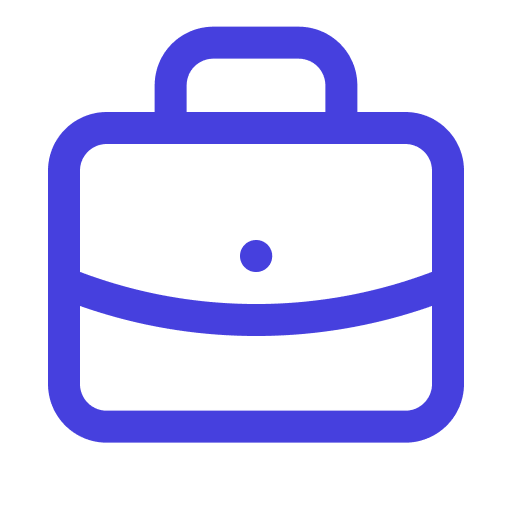
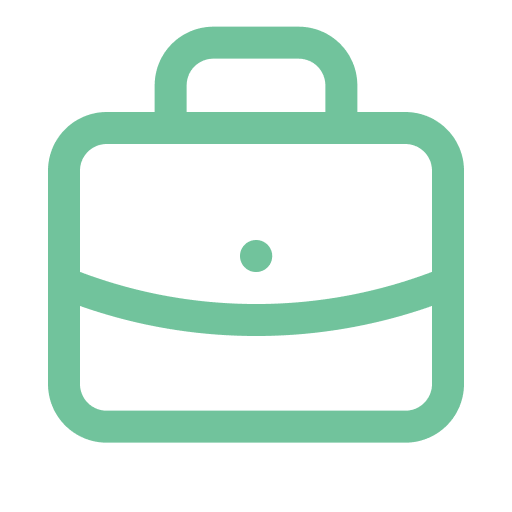
Fixed: ui

Changed region(s): [[0.0938, 0.0312, 0.9062, 0.875], [0.4688, 0.4688, 0.5312, 0.5312]]

diff --git a/front/src/pages/Home/Home.jsx b/front/src/pages/Home/Home.jsx
@@ -7,12 +7,23 @@ import chel from "../../assets/chel.png";
 import arrow from "../../assets/arrow.png";
 import arrowdown from "../../assets/arrowdown.png";
 import rightarrow from "../../assets/rightarrow.png";
+import arrowrighthover from "../../assets/arrowrighthover.png";
 import business from "../../assets/business.png";
+import businesshover from "../../assets/businesshover.png";
 import sales from "../../assets/sales.png";
+import saleshover from "../../assets/saleshover.png";
+import micro from "../../assets/micro.png";
+import microhover from "../../assets/microhover.png";
+import humanresources from "../../assets/humanresources.png";
+import humanresourceshover from "../../assets/humanresourceshover.png";
 import overall from "../../assets/overall.png";
+import overallhover from "../../assets/overallhover.png";
 import finance from "../../assets/finance.png";
+import financehover from "../../assets/financehover.png";
 import engineering from "../../assets/engineering.png";
+import engineeringhover from "../../assets/engineeringhover.png";
 import technology from "../../assets/technology.png";
+import technologyhover from "../../assets/technologyhover.png";
 import instagram from "../../assets/instagram.png";
 import facebook from "../../assets/facebook.png";
 import linkedin from "../../assets/linkedin.png";
@@ -21,10 +32,22 @@ import { useNavigate } from "react-router-dom";
 import api from "../../services/api";
 import { useEffect, useState } from "react";
 
+const icons = [
+  { default: overall, hover: overallhover, alt: "overall icon" },
+  { default: sales, hover: saleshover, alt: "sales icon" },
+  { default: micro, hover: microhover, alt: "microphone icon" },
+  { default: finance, hover: financehover, alt: "money icon" },
+  { default: technology, hover: technologyhover, alt: "technology icon" },
+  { default: engineering, hover: engineeringhover, alt: "engineering icon" },
+  { default: business, hover: businesshover, alt: "business icon" },
+  { default: humanresources, hover: humanresourceshover, alt: "people icon" },
+];
+
 export const Home = () => {
   const navigate = useNavigate();
   const [kazakhstanCities, setKazakhstanCities] = useState([]);
   const [selectedCity, setSelectedCity] = useState("");
+  const [hoveredIndex, setHoveredIndex] = useState(null);
 
   useEffect(() => {
     const fetchCities = async () => {
@@ -46,7 +69,7 @@ export const Home = () => {
           <div className="w-full flex flex-col">
             <h1 className="home text-6xl w-100 mt-35">
               DISCOVER HERE MORE{" "}
-              <span className="text-[#26A4FF]">PROJECTS</span>
+              <span className="text-[#71C39C]">PROJECTS</span>
             </h1>
             <img src={blueline} alt="blue line" className="w-93 py-4" />
             <p className="text-[#515B6F] w-110 text-xl">
@@ -86,7 +109,7 @@ export const Home = () => {
                   />
                 </div>
               </div>
-              <button className="font-bold bg-[#4640DE] text-white px-7 py-3">
+              <button className="font-bold bg-[#71C39C] text-white px-7 py-3">
                 Search my projects
               </button>
             </div>
@@ -114,100 +137,252 @@ export const Home = () => {
         <div className="px-30 py-20 bg-white">
           <div className="flex items-center justify-between">
             <h1 className="text-5xl font-bold">
-              Explore by <span className="text-[#26A4FF]">specializations</span>
+              Explore by <span className="text-[#71C39C]">specializations</span>
             </h1>
             <div
               className="flex items-center gap-3 cursor-pointer"
               onClick={() => navigate("/project-catalog")}
             >
-              <p className="text-[#4640DE] text-xl font-semibold">
+              <p className="text-[#71C39C] text-xl font-semibold">
                 Show all projects
               </p>
               <img src={arrow} alt="arrow icon" className="w-5 h-5" />
             </div>
           </div>
           <div className="grid grid-cols-4 gap-5 mt-12">
-            <div className="flex flex-col justify-center p-6 w-74 h-50 border-2 border-[#D6DDEB]">
+            <div
+              onMouseEnter={() => setHoveredIndex(0)}
+              onMouseLeave={() => setHoveredIndex(null)}
+              className="flex flex-col justify-center p-6 w-74 h-50 border-2 border-[#D6DDEB] hover:border-none hover:bg-[#71C39C] hover:text-white cursor-pointer transition-all duration-75 ease-in-out"
+            >
               <img
-                src={overall}
+                src={hoveredIndex === 0 ? icons[0].hover : icons[0].default}
                 alt="pen and ruler icon"
-                className="w-10 h-10"
+                className="w-10 h-10 mb-3"
               />
               <h1 className="text-2xl font-bold py-2">Overall</h1>
-              <div className="flex items-center gap-3 cursor-pointer">
-                <p className="text-[#7C8493] pb-1">Available projects</p>
+              <div className="flex items-center gap-3">
+                <p
+                  className={
+                    hoveredIndex === 0
+                      ? "text-white pb-1"
+                      : "text-[#7C8493] pb-1"
+                  }
+                >
+                  Available projects
+                </p>
                 <img
-                  src={rightarrow}
+                  src={hoveredIndex === 0 ? arrowrighthover : rightarrow}
                   alt="arrow right icon"
                   className="w-5 h-5"
                 />
               </div>
             </div>
-            <div className="flex flex-col justify-center p-6 w-74 h-50 border-2 border-[#D6DDEB]">
-              <img src={sales} alt="sales icon" className="w-10 h-10" />
+            <div
+              onMouseEnter={() => setHoveredIndex(1)}
+              onMouseLeave={() => setHoveredIndex(null)}
+              className="flex flex-col justify-center p-6 w-74 h-50 border-2 border-[#D6DDEB] hover:border-none hover:bg-[#71C39C] hover:text-white cursor-pointer transition-all duration-75 ease-in-out"
+            >
+              <img
+                src={hoveredIndex === 1 ? icons[1].hover : icons[1].default}
+                alt="sales icon"
+                className="w-10 h-10 mb-3"
+              />
               <h1 className="text-2xl font-bold py-2 text-nowrap">
                 Marketing Translation
               </h1>
-              <div className="flex items-center gap-3 cursor-pointer">
-                <p className="text-[#7C8493] pb-1">Available projects</p>
+              <div className="flex items-center gap-3">
+                <p
+                  className={
+                    hoveredIndex === 1
+                      ? "text-white pb-1"
+                      : "text-[#7C8493] pb-1"
+                  }
+                >
+                  Available projects
+                </p>
                 <img
-                  src={rightarrow}
+                  src={hoveredIndex === 1 ? arrowrighthover : rightarrow}
                   alt="arrow right icon"
                   className="w-5 h-5"
                 />
               </div>
             </div>
-            <div className="flex flex-col justify-center p-6 w-74 h-50 border-2 border-[#D6DDEB]">
-              <img src={finance} alt="money icon" className="w-10 h-10" />
+            <div
+              onMouseEnter={() => setHoveredIndex(2)}
+              onMouseLeave={() => setHoveredIndex(null)}
+              className="flex flex-col justify-center p-6 w-74 h-50 border-2 border-[#D6DDEB] hover:border-none hover:bg-[#71C39C] hover:text-white cursor-pointer transition-all duration-75 ease-in-out"
+            >
+              <img
+                src={hoveredIndex === 2 ? icons[2].hover : icons[2].default}
+                alt="sales icon"
+                className="w-10 h-10 mb-3"
+              />
+              <h1 className="text-2xl font-bold py-2 text-nowrap">
+                Legal Translation
+              </h1>
+              <div className="flex items-center gap-3">
+                <p
+                  className={
+                    hoveredIndex === 2
+                      ? "text-white pb-1"
+                      : "text-[#7C8493] pb-1"
+                  }
+                >
+                  Available projects
+                </p>
+                <img
+                  src={hoveredIndex === 2 ? arrowrighthover : rightarrow}
+                  alt="arrow right icon"
+                  className="w-5 h-5"
+                />
+              </div>
+            </div>
+            <div
+              onMouseEnter={() => setHoveredIndex(3)}
+              onMouseLeave={() => setHoveredIndex(null)}
+              className="flex flex-col justify-center p-6 w-74 h-50 border-2 border-[#D6DDEB] hover:border-none hover:bg-[#71C39C] hover:text-white cursor-pointer transition-all duration-75 ease-in-out"
+            >
+              <img
+                src={hoveredIndex === 3 ? icons[3].hover : icons[3].default}
+                alt="money icon"
+                className="w-10 h-10 mb-3"
+              />
               <h1 className="text-2xl font-bold py-2 text-nowrap">
                 Financial Translation
               </h1>
-              <div className="flex items-center gap-3 cursor-pointer">
-                <p className="text-[#7C8493] pb-1">Available projects</p>
+              <div className="flex items-center gap-3">
+                <p
+                  className={
+                    hoveredIndex === 3
+                      ? "text-white pb-1"
+                      : "text-[#7C8493] pb-1"
+                  }
+                >
+                  Available projects
+                </p>
                 <img
-                  src={rightarrow}
+                  src={hoveredIndex === 3 ? arrowrighthover : rightarrow}
                   alt="arrow right icon"
                   className="w-5 h-5"
                 />
               </div>
             </div>
-            <div className="flex flex-col justify-center p-6 w-74 h-50 border-2 border-[#D6DDEB]">
-              <img src={technology} alt="monitor icon" className="w-10 h-10" />
+            <div
+              onMouseEnter={() => setHoveredIndex(4)}
+              onMouseLeave={() => setHoveredIndex(null)}
+              className="flex flex-col justify-center p-6 w-74 h-50 border-2 border-[#D6DDEB] hover:border-none hover:bg-[#71C39C] hover:text-white cursor-pointer transition-all duration-75 ease-in-out"
+            >
+              <img
+                src={hoveredIndex === 4 ? icons[4].hover : icons[4].default}
+                alt="monitor icon"
+                className="w-10 h-10 mb-3"
+              />
               <h1 className="text-2xl font-bold py-2 text-nowrap">
                 Technical Translation
               </h1>
-              <div className="flex items-center gap-3 cursor-pointer">
-                <p className="text-[#7C8493] pb-1">Available projects</p>
+              <div className="flex items-center gap-3">
+                <p
+                  className={
+                    hoveredIndex === 4
+                      ? "text-white pb-1"
+                      : "text-[#7C8493] pb-1"
+                  }
+                >
+                  Available projects
+                </p>
                 <img
-                  src={rightarrow}
+                  src={hoveredIndex === 4 ? arrowrighthover : rightarrow}
                   alt="arrow right icon"
                   className="w-5 h-5"
                 />
               </div>
             </div>
-            <div className="flex flex-col justify-center p-6 w-74 h-50 border-2 border-[#D6DDEB]">
-              <img src={engineering} alt="code icon" className="w-10 h-10" />
+            <div
+              onMouseEnter={() => setHoveredIndex(5)}
+              onMouseLeave={() => setHoveredIndex(null)}
+              className="flex flex-col justify-center p-6 w-74 h-50 border-2 border-[#D6DDEB] hover:border-none hover:bg-[#71C39C] hover:text-white cursor-pointer transition-all duration-75 ease-in-out"
+            >
+              <img
+                src={hoveredIndex === 5 ? icons[5].hover : icons[5].default}
+                alt="code icon"
+                className="w-10 h-10 mb-3"
+              />
               <h1 className="text-2xl font-bold py-2 text-nowrap">
                 Software Localization
               </h1>
-              <div className="flex items-center gap-3 cursor-pointer">
-                <p className="text-[#7C8493] pb-1">Available projects</p>
+              <div className="flex items-center gap-3 w-fit">
+                <p
+                  className={
+                    hoveredIndex === 5
+                      ? "text-white pb-1"
+                      : "text-[#7C8493] pb-1"
+                  }
+                >
+                  Available projects
+                </p>
                 <img
-                  src={rightarrow}
+                  src={hoveredIndex === 5 ? arrowrighthover : rightarrow}
                   alt="arrow right icon"
                   className="w-5 h-5"
                 />
               </div>
             </div>
-            <div className="flex flex-col justify-center p-6 w-74 h-50 border-2 border-[#D6DDEB]">
-              <img src={business} alt="business icon" className="w-10 h-10" />
+            <div
+              onMouseEnter={() => setHoveredIndex(6)}
+              onMouseLeave={() => setHoveredIndex(null)}
+              className="flex flex-col justify-center p-6 w-74 h-50 border-2 border-[#D6DDEB] hover:border-none hover:bg-[#71C39C] hover:text-white cursor-pointer transition-all duration-75 ease-in-out"
+            >
+              <img
+                src={hoveredIndex === 6 ? icons[6].hover : icons[6].default}
+                alt="business icon"
+                className="w-10 h-10 mb-3"
+              />
               <h1 className="text-2xl font-bold py-2 text-nowrap">
                 Diplomatic Translation
               </h1>
-              <div className="flex items-center gap-3 cursor-pointer">
-                <p className="text-[#7C8493] pb-1">Available projects</p>
+              <div className="flex items-center gap-3">
+                <p
+                  className={
+                    hoveredIndex === 6
+                      ? "text-white pb-1"
+                      : "text-[#7C8493] pb-1"
+                  }
+                >
+                  Available projects
+                </p>
                 <img
-                  src={rightarrow}
+                  src={hoveredIndex === 6 ? arrowrighthover : rightarrow}
+                  alt="arrow right icon"
+                  className="w-5 h-5"
+                />
+              </div>
+            </div>
+            <div
+              onMouseEnter={() => setHoveredIndex(7)}
+              onMouseLeave={() => setHoveredIndex(null)}
+              className="flex flex-col justify-center p-6 w-74 h-50 border-2 border-[#D6DDEB] hover:border-none hover:bg-[#71C39C] hover:text-white cursor-pointer transition-all duration-75 ease-in-out"
+            >
+              <img
+                src={hoveredIndex === 7 ? icons[7].hover : icons[7].default}
+                alt="business icon"
+                className="w-10 h-10 mb-3"
+              />
+              <h1 className="text-2xl font-bold py-2 text-nowrap">
+                Literary Translation
+              </h1>
+              <div className="flex items-center gap-3">
+                <p
+                  className={
+                    hoveredIndex === 7
+                      ? "text-white pb-1"
+                      : "text-[#7C8493] pb-1"
+                  }
+                >
+                  Available projects
+                </p>
+                <img
+                  src={hoveredIndex === 7 ? arrowrighthover : rightarrow}
                   alt="arrow right icon"
                   className="w-5 h-5"
                 />
@@ -240,24 +415,6 @@ export const Home = () => {
               <p className="cursor-pointer">Guide</p>
               <p className="py-5 cursor-pointer">Updates</p>
               <p className="cursor-pointer">Contact Us</p>
-            </div>
-            <div>
-              <h1 className="text-lg font-bold text-white">
-                Get job notifications
-              </h1>
-              <p className="w-65 py-5">
-                The latest project news, articles, sent to your inbox weekly.
-              </p>
-              <div className="flex items-center gap-3 mt-4">
-                <input
-                  type="text"
-                  placeholder="Email Address"
-                  className="bg-white px-4 py-2 focus:outline-none"
-                />
-                <button className="font-bold bg-[#4640DE] text-white px-5 py-2">
-                  Subscribe
-                </button>
-              </div>
             </div>
           </div>
         </div>
